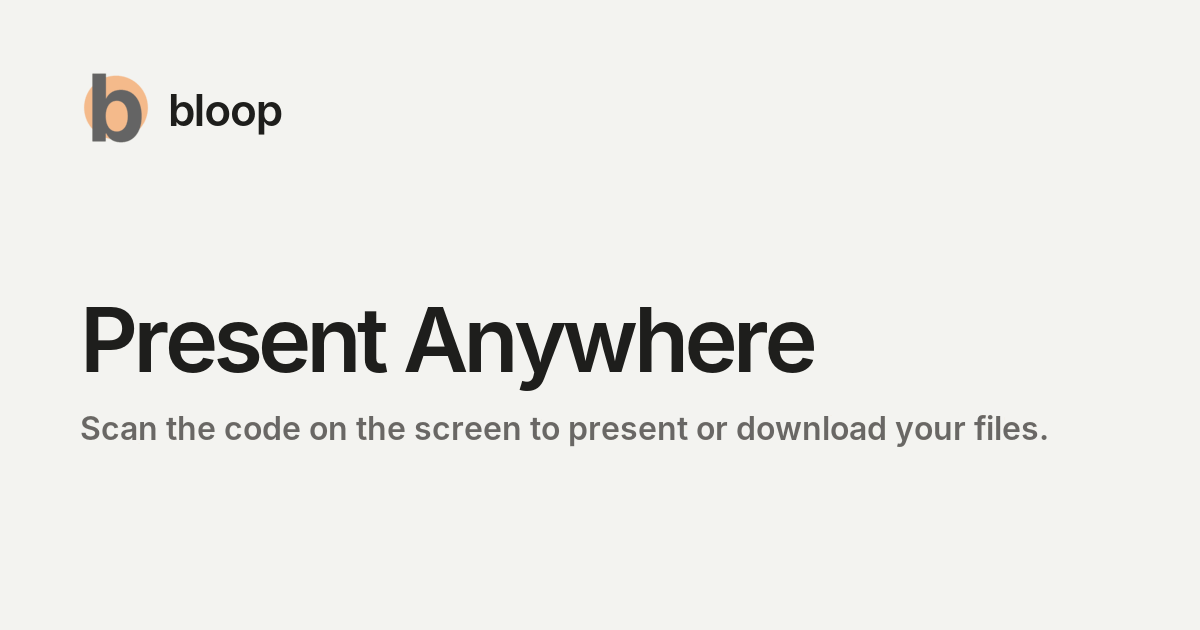
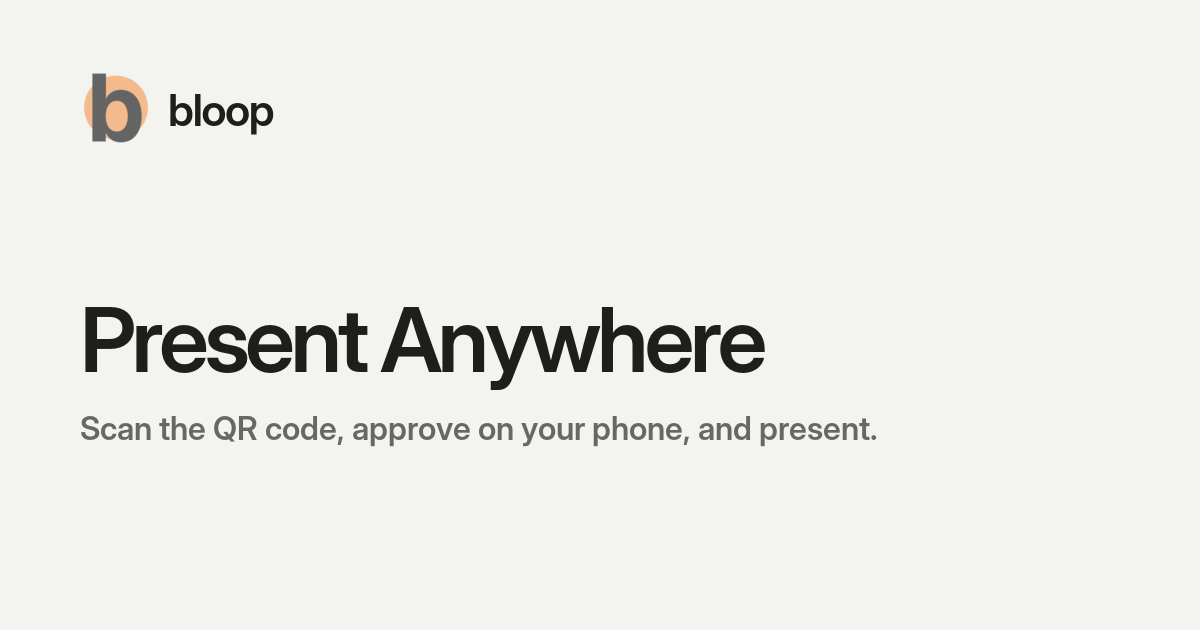
og: re-render the social image with the new subtitle

Changed region(s): [[0.0617, 0.4825, 0.6783, 0.6333], [0.0617, 0.6635, 0.8633, 0.7238], [0.1233, 0.1508, 0.2467, 0.2111]]

diff --git a/tools/render-og.py b/tools/render-og.py
@@ -15,7 +15,7 @@ ROOT = Path(__file__).resolve().parent.parent
 LOGO = ROOT / 'public' / 'favicon.svg'
 SITE_NAME = 'bloop'
 H1 = 'Present Anywhere'
-SUB = 'Scan the code on the screen to present or download your files.'
+SUB = 'Scan the QR code, approve on your phone, and present.'
 W, H = 1200, 630
 PAPER, INK, MUTED = '#F3F3F0', '#1E1E1C', '#6C6C66'
 MARK = (80, 72, 72)  # x, y, size of the logo
